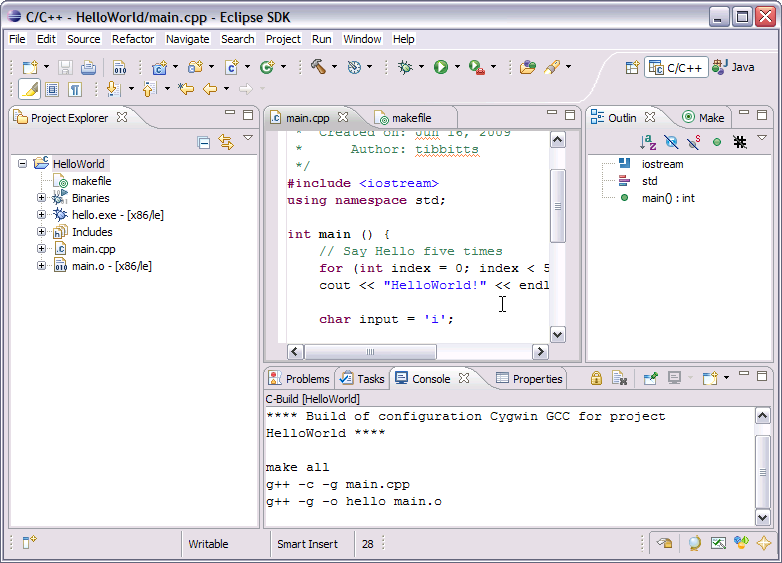
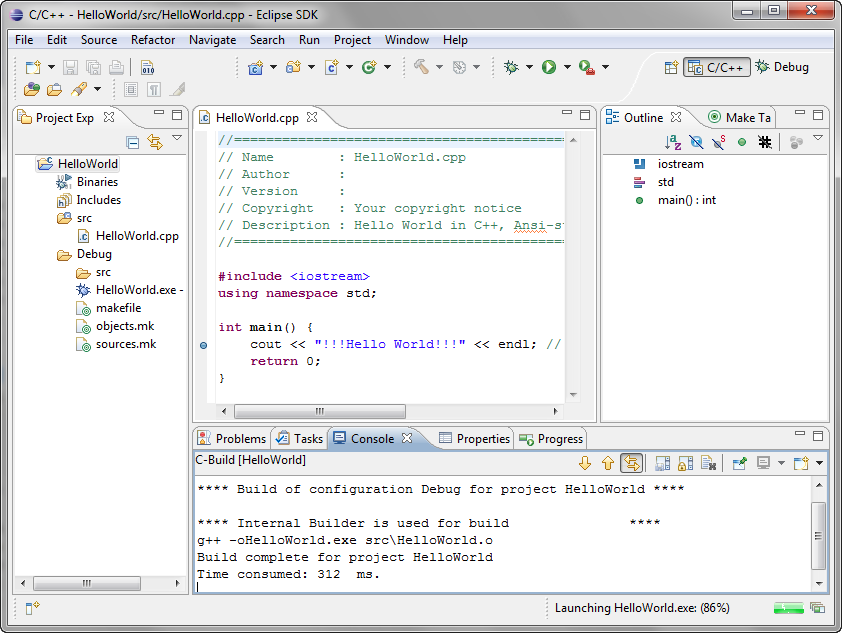
Revised and updated images for Building a project page

diff --git a/all/org.eclipse.cdt.doc.user/getting_started/cdt_w_build.htm b/all/org.eclipse.cdt.doc.user/getting_started/cdt_w_build.htm
@@ -15,28 +15,23 @@ function newWin(url) {
 <h1>Building a project</h1>
 
 <p>The make output and build progress information displays in the
-Console view. The Make Targets view displays makefile actions, and the
-Problems view displays compile warnings or errors.</p>
-<p>To build a project:</p>
+    <a href="../reference/cdt_u_console_view.htm">Console</a> view. The <a href="../reference/cdt_u_make_targets_view.htm">Make Targets</a> view displays makefile actions, and the
+<a href="../reference/cdt_u_problems_view.htm">Problems</a> view displays compile warnings or errors.</p>
+<h2>To build a project:</h2>
 <ol>
   <li>In the <strong>Project Explorer</strong> view, select your project. For the tutorial, you can   select the <strong>HelloWorld</strong> project you created earlier. <p><br></p></li>
-  <li>Click <strong>Project &gt; Build Project</strong>.
-  <br>You can also hit the hammer icon <img src="../images/hammer-icon.png" alt="build icon"> on the toolbar.
-  </li>
+  <li>Click <strong>Project &gt; Build Project</strong>, or click the   build icon <img src="../images/hammer-icon.png" alt="build icon" align="absmiddle"> on the toolbar.  </li>
   <p>If you see an error message, such as:</p>
    <p><samp>&nbsp;&nbsp;&nbsp;(Cannot run program "make": Launching failed)</samp></p>
-  <p>then CDT cannot locate the build command, usually <samp>make</samp>.
-Either your path is not configured correctly, or you do not have <samp>make</samp>
+  <p>then CDT cannot locate the build command, usually <samp class="typewriter">make</samp>.
+Either your path is not configured correctly, or you do not have <samp class="typewriter">make</samp>
 installed on your system.</p>
-<li>You can see the output and results of the build command in the <strong>Console</strong> view.
+<li>You can see in the <strong>Console</strong> view the output and results of the build command.
 Click on its tab to bring the view forward if it is not currently visible.
-If for some reason it's not present, you can open it by selecting Window > Show View > Console.
-<p> <br> 
-<a href="javascript:void(0)" onClick="newWin('../images/cdt_w_newmake03.png')">Click here to see an illustration (displayed in a separate window)
-</a>.</p> 
-
-
-
+If for some reason it's not present, you can open it by selecting <strong>Window > Show View > Console</strong>.
+<br>
+<br>
+<img src="../images/cdt_w_newmake03.png" width="842" height="633"><br>
 </li>
 </ol>
 <p><img border="0" src="../images/ngconcepts.gif" alt="Related concepts"
